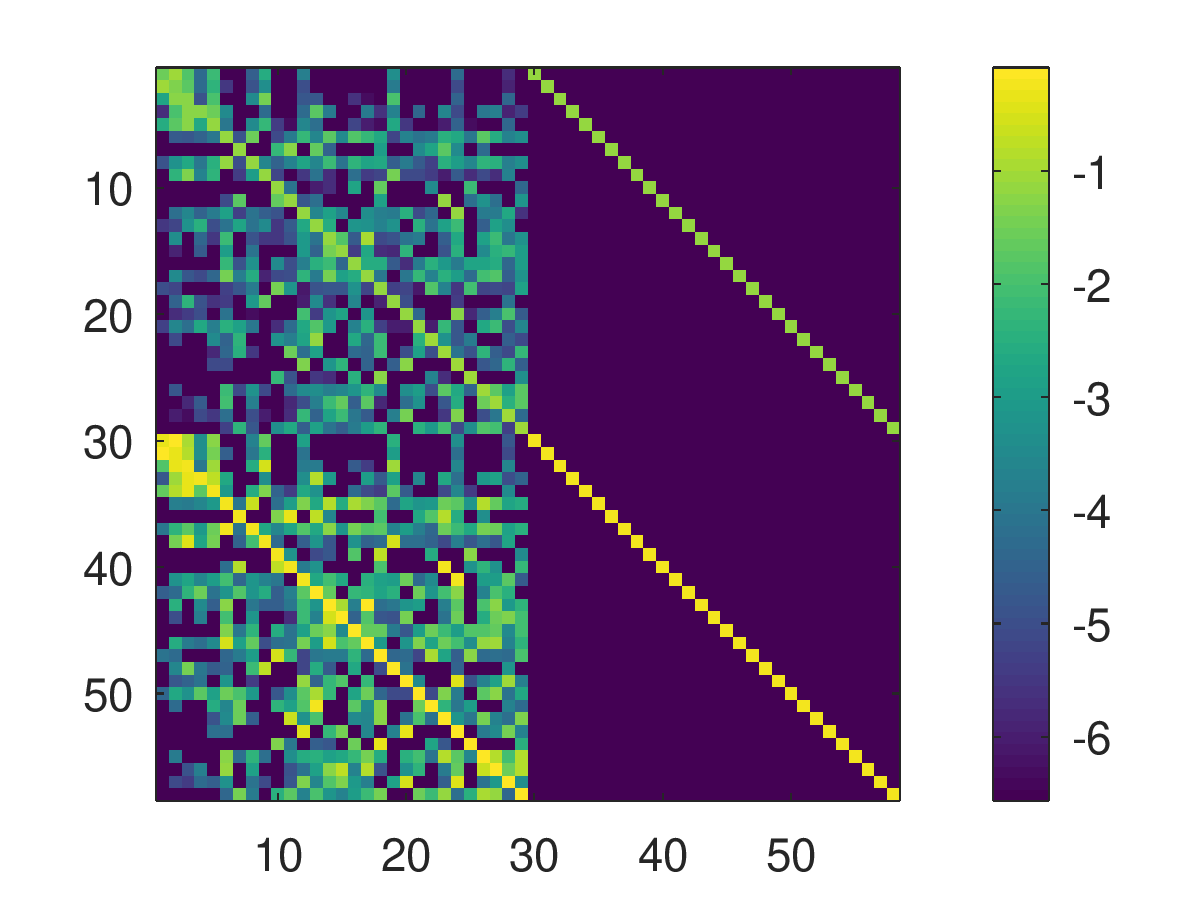
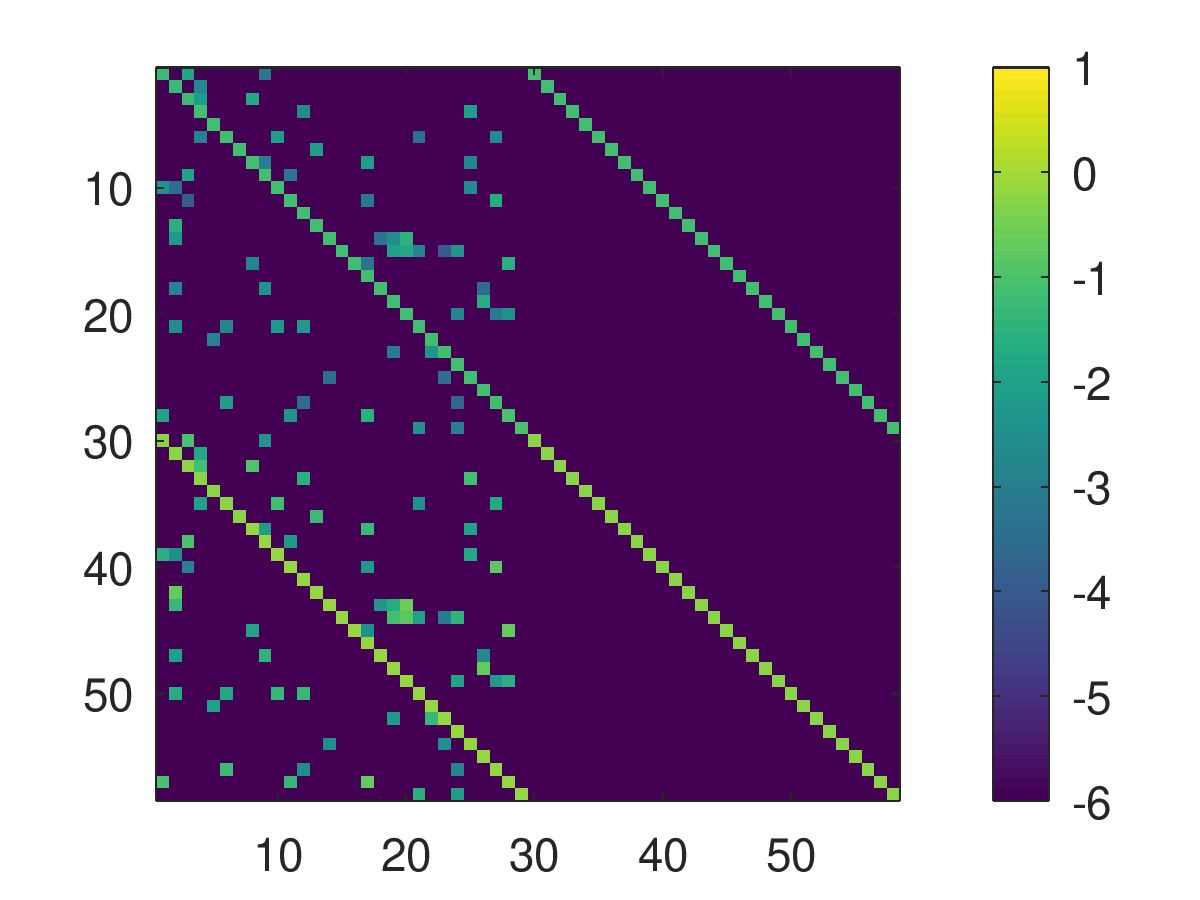
Add few more

diff --git a/sol.m b/sol.m
@@ -49,11 +49,6 @@ case -1
   legend('orig', 'fit', 'location', 'southeast');
   pic_output_png('A11diag_vs_A21diag_loglog');
 
-  figure(10089);
-  imagesc(log10(abs(A3)));
-  colorbar();
-  pic_output_png('Aei_log10');
-
   return
 
 case 1
@@ -148,6 +143,9 @@ case {2, 22}
     eigvalapp(2, k) = twob(1,1) - twob(2,1)*twob(1,2)/twob(2,2);
   end
 
+  A_skel = A;
+  [eigvec_skel, eigval_skel] = eig(A);
+
 %  % add random interconnection
 %  mnz = floor(n*n*0.02);  % number of non-zero
 %  idnz = 2*randi(n*n/2,mnz,1);
@@ -171,6 +169,11 @@ case {2, 22}
   A(idnz) = A(idnz) + scaled_rnds;
   A(idnz1) = A(idnz1) + scaled_rnds/8;
 
+  if id_case == 22
+    % diagonalize 2x2 blocks
+    A = eigvec_skel \ A * eigvec_skel;
+  end
+
 %  % random scale
 %  A(1:2:n-1, :) = 10.^(-3+2*rand(n/2,1)) .* A(1:2:n-1, :);
 end
@@ -178,27 +181,29 @@ end
 pic_output_png = @(st) print('-dpng', ...
                    sprintf('%s%s_c%d.png', pic_prefix, st, id_case));
 
-% show diag
-figure(32490); plot(1:n/2, A0(1:2*n+2:end), '-+', 1:n/2, A(1:2*n+2:end), '-o')
-xlabel('index of 2x2 matrix');
-ylabel('value');
-legend('original', 'hand fit', 'location', 'southeast');
-pic_output_png('a11diag');
-figure(32491); plot(1:n/2, A0(2:2*n+2:end), '-+', 1:n/2, A(2:2*n+2:end), '-o')
-xlabel('index of 2x2 matrix');
-ylabel('value');
-legend('original', 'hand fit', 'location', 'southeast');
-pic_output_png('a21diag');
-figure(32492); plot(1:n/2, A0(n+1:2*n+2:end), '-+', 1:n/2, A(n+1:2*n+2:end), '-o')
-xlabel('index of 2x2 matrix');
-ylabel('value');
-legend('original', 'hand fit', 'location', 'southeast');
-pic_output_png('a12diag');
-figure(32493); plot(1:n/2, A0(n+2:2*n+2:end), '-+', 1:n/2, A(n+2:2*n+2:end), '-o')
-xlabel('index of 2x2 matrix');
-ylabel('value');
-legend('original', 'hand fit', 'location', 'southeast');
-pic_output_png('a22diag');
+if id_case
+  % show diag
+  figure(32490); plot(1:n/2, A0(1:2*n+2:end), '-+', 1:n/2, A(1:2*n+2:end), '-o')
+  xlabel('index of 2x2 matrix');
+  ylabel('value');
+  legend('original', 'hand fit', 'location', 'southeast');
+  pic_output_png('a11diag');
+  figure(32491); plot(1:n/2, A0(2:2*n+2:end), '-+', 1:n/2, A(2:2*n+2:end), '-o')
+  xlabel('index of 2x2 matrix');
+  ylabel('value');
+  legend('original', 'hand fit', 'location', 'southeast');
+  pic_output_png('a21diag');
+  figure(32492); plot(1:n/2, A0(n+1:2*n+2:end), '-+', 1:n/2, A(n+1:2*n+2:end), '-o')
+  xlabel('index of 2x2 matrix');
+  ylabel('value');
+  legend('original', 'hand fit', 'location', 'southeast');
+  pic_output_png('a12diag');
+  figure(32493); plot(1:n/2, A0(n+2:2*n+2:end), '-+', 1:n/2, A(n+2:2*n+2:end), '-o')
+  xlabel('index of 2x2 matrix');
+  ylabel('value');
+  legend('original', 'hand fit', 'location', 'southeast');
+  pic_output_png('a22diag');
+end
 
 figure(10);
 imagesc(A);
@@ -214,6 +219,22 @@ title('Aei');
 caxis([-1, 1])
 colorbar();
 pic_output_png('Aei');
+
+figure(345);
+imagesc(log10(abs(Aei)));
+colorbar();
+caxis([-6, 1])
+pic_output_png('Aei_log10');
+
+%% verification
+%A615 = eigvec_skel \ A_skel * eigvec_skel;
+%A615ei = A615([1:2:n 2:2:n], [1:2:n 2:2:n]);
+%figure(346);
+%imagesc(log10(abs(A615)));
+%colorbar();
+%caxis([-6, 1])
+%%pic_output_png('Aei_log10');
+
 
 [eigvec eigval] = eig(A);
 eigval = diag(eigval);
